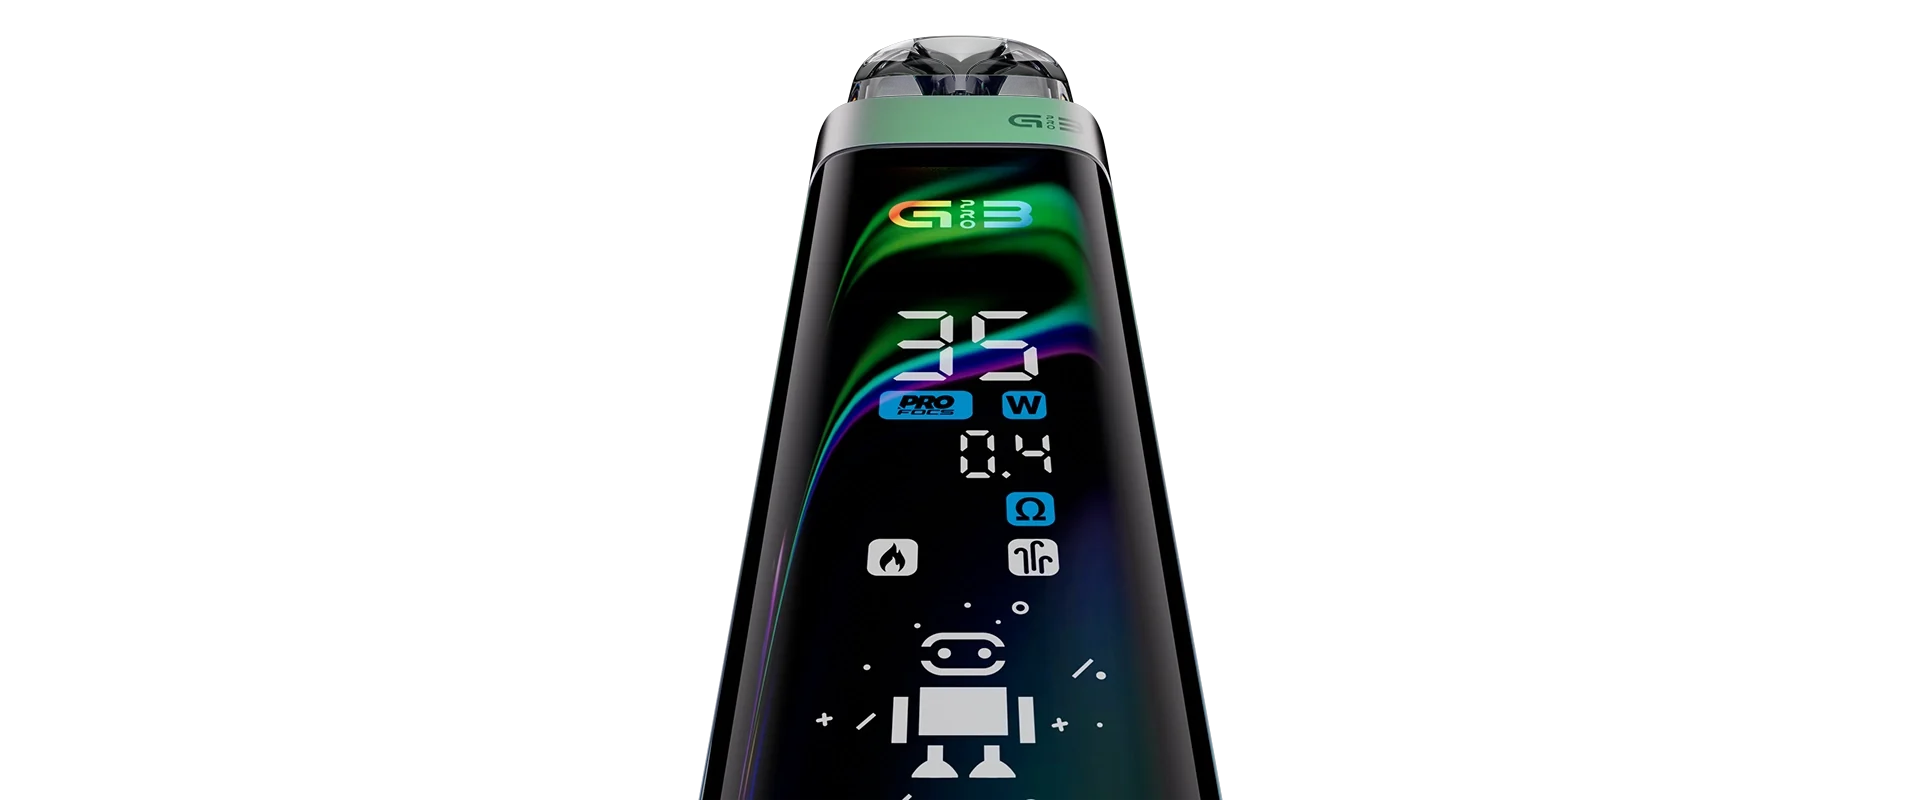
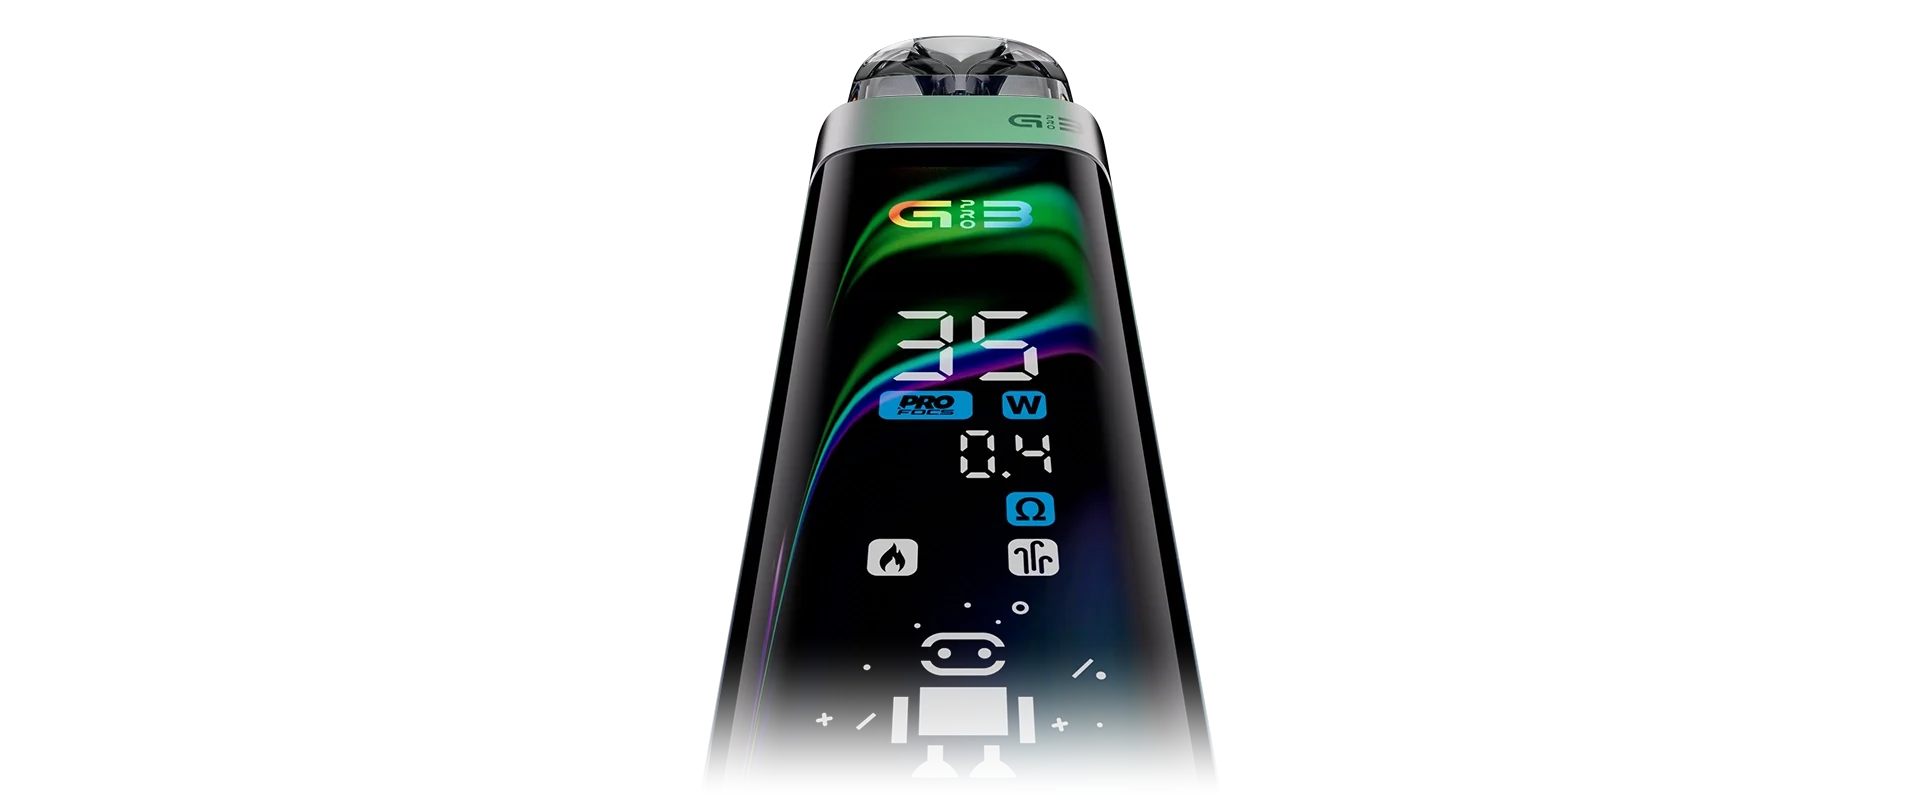
fix(products): G3 Pro / KOKO posters - KOKO 4 opaque posters back in the card, G3 Pro screen close-up fades at the cut (checker #242 round 1)
KOKO story-screen / -themes / -battery / -power are UWELL files on their own black (99%+ opaque):
`transparent` removed so they sit in the poster card instead of floating as black boxes. G3 Pro
story-full-screen: UWELL crops the device at the file bottom - alpha-only fade of the lowest rows
(as the G5 cover), no pixel drawn. Script _incoming/sitewide-template/1d/fix-poster.js.

Changed region(s): [[0.3438, 0.8125, 0.6562, 1.0]]

diff --git a/src/data/products/uwell.ts b/src/data/products/uwell.ts
@@ -1827,14 +1827,14 @@ export const uwellProducts: Product[] = [
         title: "A full colour screen",
         description: "Every vaping detail is on the screen, with animations while you vape.",
         subline: "UWELL's first full-screen KOKO.",
-        image: { src: "/assets/products/caliburn-g3-pro-koko/story-screen.webp", alt: "UWELL's Caliburn G3 Pro KOKO poster — three devices with the screen on", sourceName: "UWELL", sourceUrl: "https://www.myuwell.com/caliburn/caliburn-g3-pro-koko", width: 1327, height: 756, transparent: true },
+        image: { src: "/assets/products/caliburn-g3-pro-koko/story-screen.webp", alt: "UWELL's Caliburn G3 Pro KOKO poster — three devices with the screen on", sourceName: "UWELL", sourceUrl: "https://www.myuwell.com/caliburn/caliburn-g3-pro-koko", width: 1327, height: 756 },
       },
       {
         id: "themes",
         title: "Screen themes",
         description: "Press the button four times to open the menu, then change the theme there.",
         subline: "Pick the look you like.",
-        image: { src: "/assets/products/caliburn-g3-pro-koko/story-themes.webp", alt: "UWELL's Caliburn G3 Pro KOKO poster — screen themes", sourceName: "UWELL", sourceUrl: "https://www.myuwell.com/caliburn/caliburn-g3-pro-koko", width: 1029, height: 625, transparent: true },
+        image: { src: "/assets/products/caliburn-g3-pro-koko/story-themes.webp", alt: "UWELL's Caliburn G3 Pro KOKO poster — screen themes", sourceName: "UWELL", sourceUrl: "https://www.myuwell.com/caliburn/caliburn-g3-pro-koko", width: 1029, height: 625 },
       },
       {
         id: "day-night",
@@ -1848,14 +1848,14 @@ export const uwellProducts: Product[] = [
         title: "Charge less often",
         description: "How long yours lasts depends on how often you vape and the wattage you set.",
         subline: "A bigger battery than the G3 Pro.",
-        image: { src: "/assets/products/caliburn-g3-pro-koko/story-battery.webp", alt: "UWELL's Caliburn G3 Pro KOKO poster — 1250 mAh", sourceName: "UWELL", sourceUrl: "https://www.myuwell.com/caliburn/caliburn-g3-pro-koko", width: 1024, height: 625, transparent: true },
+        image: { src: "/assets/products/caliburn-g3-pro-koko/story-battery.webp", alt: "UWELL's Caliburn G3 Pro KOKO poster — 1250 mAh", sourceName: "UWELL", sourceUrl: "https://www.myuwell.com/caliburn/caliburn-g3-pro-koko", width: 1024, height: 625 },
       },
       {
         id: "power",
         title: "Wattage and airflow, yours to set",
         description: "Press three times to set the wattage, and slide the airflow from smooth to strong.",
         subline: "Up to 35W.",
-        image: { src: "/assets/products/caliburn-g3-pro-koko/story-power.webp", alt: "UWELL's Caliburn G3 Pro KOKO poster — 35 W", sourceName: "UWELL", sourceUrl: "https://www.myuwell.com/caliburn/caliburn-g3-pro-koko", width: 1809, height: 756, transparent: true },
+        image: { src: "/assets/products/caliburn-g3-pro-koko/story-power.webp", alt: "UWELL's Caliburn G3 Pro KOKO poster — 35 W", sourceName: "UWELL", sourceUrl: "https://www.myuwell.com/caliburn/caliburn-g3-pro-koko", width: 1809, height: 756 },
       },
       {
         id: "anti-leak",
